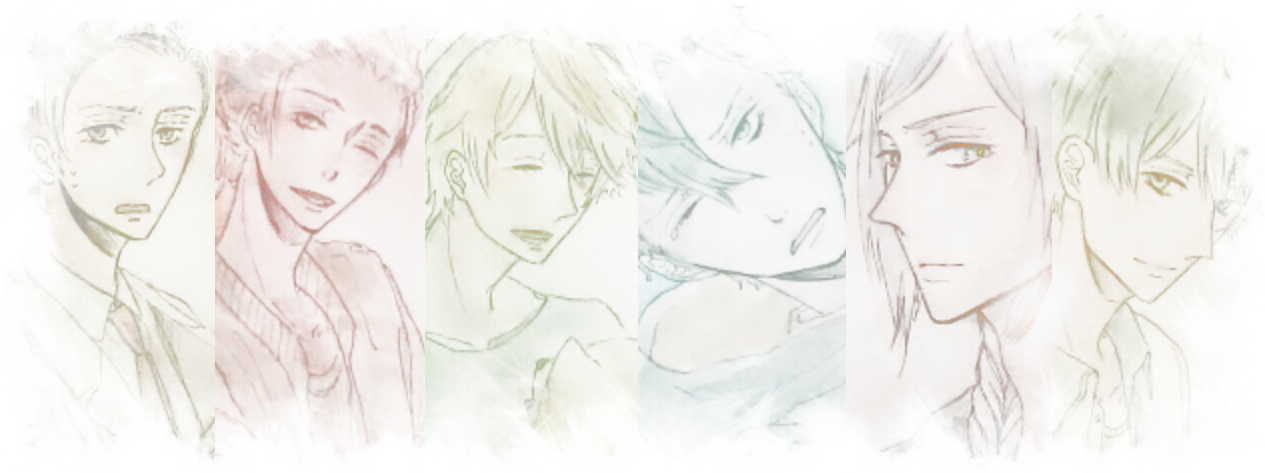
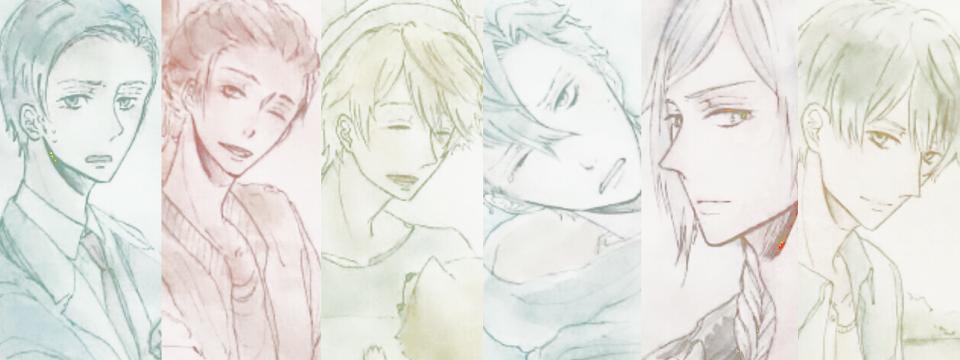
Update hero bg.

diff --git a/app/assets/stylesheets/refills/_hero.scss b/app/assets/stylesheets/refills/_hero.scss
@@ -8,13 +8,13 @@
   $hero-color: white;
 
   &.liag {
-    $liag-image: url(image-path('backgrounds/liag/characters.png'));
+    $liag-image: url(image-path('backgrounds/liag/title_screen.png'));
 
     //@include background(linear-gradient(top, transparent, rgba($pink, 0.2)), $liag-image);
-    @include background(linear-gradient(top, transparent 40%, rgba(darken($dark-blue, 40%), 0.3)), $liag-image center no-repeat);
+    @include background(linear-gradient(top, transparent 40%, rgba(darken($dark-blue, 40%), 0.3)), $liag-image 50% 70% no-repeat);
 
     background-color: white;
-    background-size: contain;
+    background-size: cover;
   }
 
   border-bottom: 1px solid $dark-blue;
